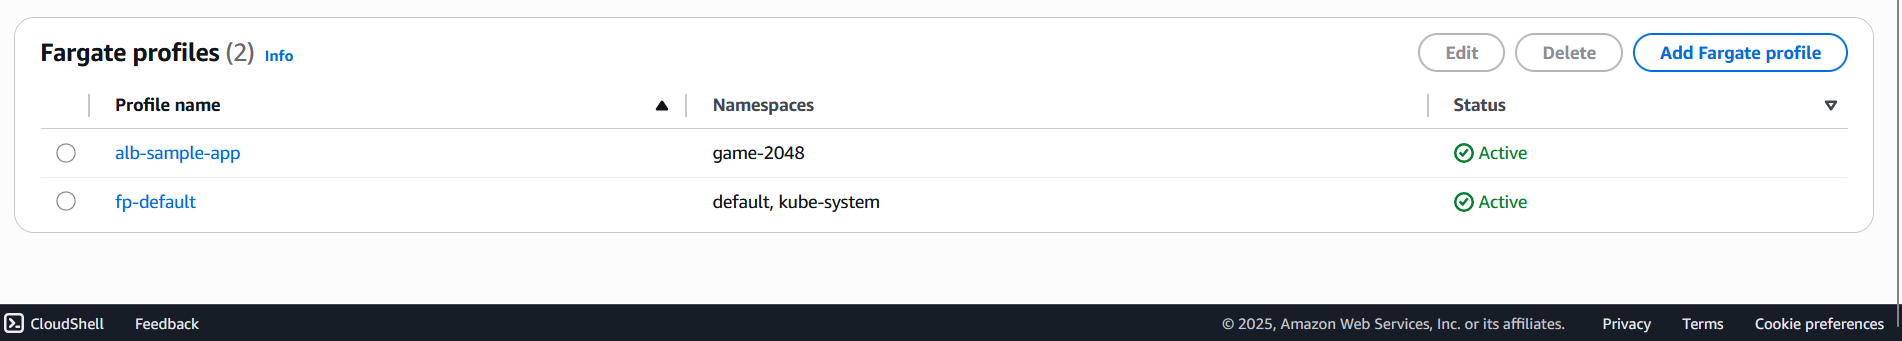
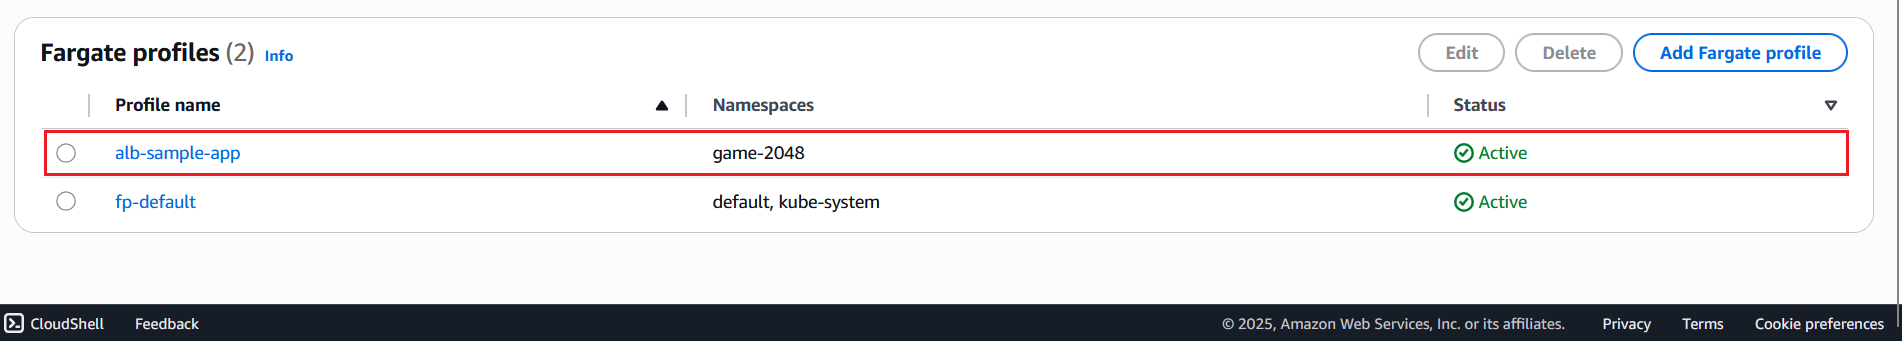
Update README.md to refine EKS setup instructions and enhance project documentation with images

Changed region(s): [[0.0, 0.3812, 0.9926, 0.4106], [0.031, 0.4985, 0.9926, 0.5279]]

diff --git a/README.md b/README.md
@@ -40,20 +40,20 @@ In this project, we will be creating an EKS cluster in AWS and deploying an appl
    
 
 ## Tech Stack/ AWS Services
-1.VPC
-2. Subnets
-3. IAM Roles
-4. Route TAbles
-5. NatGateway
-6.Security Groups
-7.Internete Gateway
-9. EKS Cluster
-10. Elastic IP (EIP)
+- 1.VPC
+- 2. Subnets
+- 3. IAM Roles
+- 4. Route TAbles
+- 5. NatGateway
+- 6.Security Groups
+- 7.Internete Gateway
+- 9. EKS Cluster
+- 10. Elastic IP (EIP)
 
 ## Project Architecture
 
 
-## Project Setup
+## EKS Cluster  Setup 
 
 ### Create EKS Cluster
 
@@ -67,20 +67,52 @@ Use the eksctl tool to create your kubernetes cluster in AWS.
 **AWS_REGION:** The region to deploy your cluster eg. us-east-1
 **AWS_PROFILE:**  AWS profile to use, if you don't specify a profile the default profile will be used.
 
-When you run the above command, it will creates a new Amazon EKS  cluster using AWS Fargate compute type. With Fargate , AWS manages the underlying compute infrastructure for you. 
+When you run the above command, it will creates a new Amazon EKS  cluster using AWS Fargate compute type. With Fargate , AWS manages the underlying compute infrastructure for you in the data plane. 
 
 **NOTE** Don't forget to replace the **CLUSTER_NAME:** , **AWS_PROFILE:** and **AWS_REGION:** with your prefered values. In this project i will use game-2408-eks-cluster and us-east-1 for cluster name and region respectively. When you don't specify a profile the default profile will be used.
+
+**game-2408-eks-cluster creation**
+![game-2408-eks-cluster creation](./images/cluster%20creation.png)
+
+**game-2408-eks-cluster**
+![game-2408-eks-cluster ](./images/cluster.png)
 
 Deleting EKS cluster
 ```bash
   eksctl delete cluster --name demo-cluster --region us-east-1
 ```
-you can use the above command to delete your EKS cluster
-### 
+you can use the above command to delete your EKS cluster.  Make sure to delete your cluster after you have completed the project so that you will not incure additional charges
+
+### Download the kube config file
+
+```bash
+aws eks update-kubeconfig --name <CLUSTER_NAME> --profile <AWS_PROFILE> --region <REGION>
+```
+This command adds or updates the configuration in your ~/.kube/config file so you can use kubectl commands to manage the your  EKS cluster
+
+
+**CLUSTER_NAME:** Name of your cluster eg. game-2408-eks-cluster
+**AWS_REGION:** The region to deploy your cluster eg. us-east-1
+**AWS_PROFILE:**  AWS profile to use, if you don't specify a profile the default profile will be used.
+
 ```bash
 aws eks update-kubeconfig --name game-2408-eks-cluster --profile wewoli --region us-east-1
 ```
 
+
+## Deploy application to EKS Cluster 
+
+### Create Fargate profile
+In this next step you need to create a fargte profile. The `eksctl create fargateprofile` command  creates a Fargate profile that enables your EKS cluster to run pods on AWS Fargate serverless compute. It sets up a profile, `alb-sample-app` that will automatically schedule any pods created in the `game-2048` namespace to run on Fargate
+```bash
+eksctl create fargateprofile \
+    --cluster <CLUSTER_NAME> \
+    --region <REGION> \
+    --name alb-sample-app \
+    --namespace game-2048 \
+    --profile <AWS_PROFILE>
+```
+Make sure to replace the `**<CLUSTER_NAME**`,`<REGION>`  and `<AWS_PROFILE>` with the necessory values.
 ### Create Fargate profile
 In this next step you need to create a fargte profile
 ```bash
@@ -90,42 +122,138 @@ eksctl create fargateprofile \
     --name alb-sample-app \
     --namespace game-2048 \
     --profile wewoli
+```
+**Fagate Profile creation**
+![Fagate Profile creation](./images/fargte%20profile.png)
 
-### Deploy the deployment, service and Ingress
+**Fagate Profile**
+![Fagate Profile](./images/fargte%20profile2.png)
+
+
+### Deploy the deployment, service and Ingress resources
+Now that your cluster is all setup , deploy your application and all the necessory resources that your application needs.
 
 ```bash
 kubectl apply -f https://raw.githubusercontent.com/kubernetes-sigs/aws-load-balancer-controller/v2.5.4/docs/examples/2048/2048_full.yaml
 ```
+![Deployment](./images/deployment.png)
+
 ### check that the pods have been created successfully
+**Pods**
+Command
 ```bash
 kubectl get pods -n game-2048
 ```
+Output
+```bash
+NAME                              READY   STATUS    RESTARTS   AGE
+deployment-2048-bdbddc878-5r6pp   1/1     Running   0          12m
+deployment-2048-bdbddc878-gn8jd   1/1     Running   0          12m
+deployment-2048-bdbddc878-rg7xb   1/1     Running   0          12m
+deployment-2048-bdbddc878-wb57x   1/1     Running   0          12m
+deployment-2048-bdbddc878-z7spf   1/1     Running   0          12m
+```
 
+**Service**
+Command
 ```bash
 kubectl get svc -n game-2048
 ```
+Output
+```bash
+NAME           TYPE       CLUSTER-IP     EXTERNAL-IP   PORT(S)        AGE
+service-2048   NodePort   10.100.20.30   <none>        80:31923/TCP   12m
+```
+**Deployment**
+Command
 ```bash
 kubectl get deply -n game-2048
 ```
+Output
+```bash
+NAME              READY   UP-TO-DATE   AVAILABLE   AGE
+deployment-2048   5/5     5            5           13m
+
+```
+**Ingress**
+Command
 ```bash
 kubectl get ingress -n game-2048
 ```
-OR get all the resources with one command
+Output
+```bash
+NAME           CLASS   HOSTS   ADDRESS   PORTS   AGE
+ingress-2048   alb     *                 80      12m
+```
+OR alternatively you get all the resources with one command
 
+**Get all resources in the game-2048 Namespace**
+Command
 ```bash
 kubectl get all -n game-2048
 ```
+Output
+```bash
+NAME                                  READY   STATUS    RESTARTS   AGE
+pod/deployment-2048-bdbddc878-5r6pp   1/1     Running   0          13m
+pod/deployment-2048-bdbddc878-gn8jd   1/1     Running   0          13m
+pod/deployment-2048-bdbddc878-rg7xb   1/1     Running   0          13m
+pod/deployment-2048-bdbddc878-wb57x   1/1     Running   0          13m
+pod/deployment-2048-bdbddc878-z7spf   1/1     Running   0          13m
 
-### configure OPENID
+NAME                   TYPE       CLUSTER-IP     EXTERNAL-IP   PORT(S)        AGE
+service/service-2048   NodePort   10.100.20.30   <none>        80:31923/TCP   13m
+
+NAME                              READY   UP-TO-DATE   AVAILABLE   AGE
+deployment.apps/deployment-2048   5/5     5            5           13m
+
+NAME                                        DESIRED   CURRENT   READY   AGE
+replicaset.apps/deployment-2048-bdbddc878   5         5         5       13m
+```
+
+
+## setup alb add on
+
+### configure IAM OIDC provider
 ```bash
 eksctl utils associate-iam-oidc-provider --cluster game-2408-eks-cluster --approve
 ``` 
+This command allows the  pods running in your EKS cluster to assume AWS IAM roles directly, without needing to store AWS credentials in the pods or use EC2 instance profiles
+![IAM OIDC provider](./images/OIDC.png)
 
-## setup alb add on
+### Create IAM role
 Download IAM policy
+```bash
+curl -O https://raw.githubusercontent.com/kubernetes-sigs/aws-load-balancer-controller/v2.11.0/docs/install/iam_policy.json
+```
 Create IAM Policy
 
-install helm chat
+```bash
+eksctl utils associate-iam-oidc-provider --cluster game-2408-eks-cluster --approve
+```
+Create IAM Role
+
+```bash
+eksctl create iamserviceaccount \
+  --cluster=<your-cluster-name> \
+  --namespace=kube-system \
+  --name=aws-load-balancer-controller \
+  --role-name AmazonEKSLoadBalancerControllerRole \
+  --attach-policy-arn=arn:aws:iam::<your-aws-account-id>:policy/AWSLoadBalancerControllerIAMPolicy \
+  --approve
+```
+
+
+### Deploy ALB controller using Helm charts
+**Add helm repo**
+```bash
+    helm repo add eks https://aws.github.io/eks-charts
+```
+**Update the repo**
+```bash
+    helm repo update eks
+```
+**Install helm chat**
 ```bash
 helm install aws-load-balancer-controller eks/aws-load-balancer-controller \         
   -n kube-system \
@@ -133,43 +261,37 @@ helm install aws-load-balancer-controller eks/aws-load-balancer-controller \
   --set serviceAccount.create=false \
   --set serviceAccount.name=aws-load-balancer-controller \
   --set region=us-east-1 \
-  --set vpcId=vpc-0016be736d2ed0531 \
+  --set vpcId=<VPC_ID> \
   --set profile=wewoli
 ```
+**ALB controller Creation**
+![Alb controller installed successfully](./images/alb.png)
+
+**ALB created in AWS**
+![Alb created in AWS](./images/helm-alb.png)
+
+**Verify that the deployments are running.**
+```bash
+kubectl get deployment -n kube-system aws-load-balancer-controller
+```
+**Access the application using the DNS of the ALB**
+![2408 Game](./images/game-ui.png)
 
 ## ERRORS Debugging and Troubleshooting
 
-1.Error: validation for 2408_game_eks_cluster failed, name must satisfy regular expression pattern: [a-zA-Z][-a-zA-Z0-9]*
+### 1.Error: validation for 2408_game_eks_cluster failed
+Error: validation for 2408_game_eks_cluster failed, name must satisfy regular expression pattern: [a-zA-Z][-a-zA-Z0-9]*
+
 Solution: rename the cluster to follow the proper naming convertion
 
-
-2. Error: failed to create iamserviceaccount(s)
+### 2. Error: failed to create iamserviceaccount(s)
+Error: failed to create iamserviceaccount(s)
 2025-06-19 15:40:22 [ℹ]  1 error(s) occurred and IAM Role stacks haven't been created properly, you may wish to check CloudFormation console
 2025-06-19 15:40:22 [✖]  waiter state transitioned to Failure
 
 Solution
 
 
-eksctl create iamserviceaccount \
-  --cluster=game-2408-eks-cluster\
-  --namespace=kube-system \
-  --name=aws-load-balancer-controller \
-  --role-name AmazonEKSLoadBalancerControllerRole \
-  --attach-policy-arn=arn:aws:iam::650251710981:policy/AWSLoadBalancerControllerIAMPolicy \
-  --profile wewoli \
-  --override-existing-serviceaccounts \
-  --approve
 
-
-
-eksctl create iamserviceaccount \
-  --cluster=game-2408-eks-cluster \
-  --namespace=kube-system \
-  --name=aws-load-balancer-controller \
-  --role-name AmazonEKSLoadBalancerControllerRole \
-  --attach-policy-arn=arn:aws:iam::650251710981:policy/AWSLoadBalancerControllerIAMPolicy \
-  --profile wewoli \
-  --override-existing-serviceaccounts \ 
-  --approve
 
   
